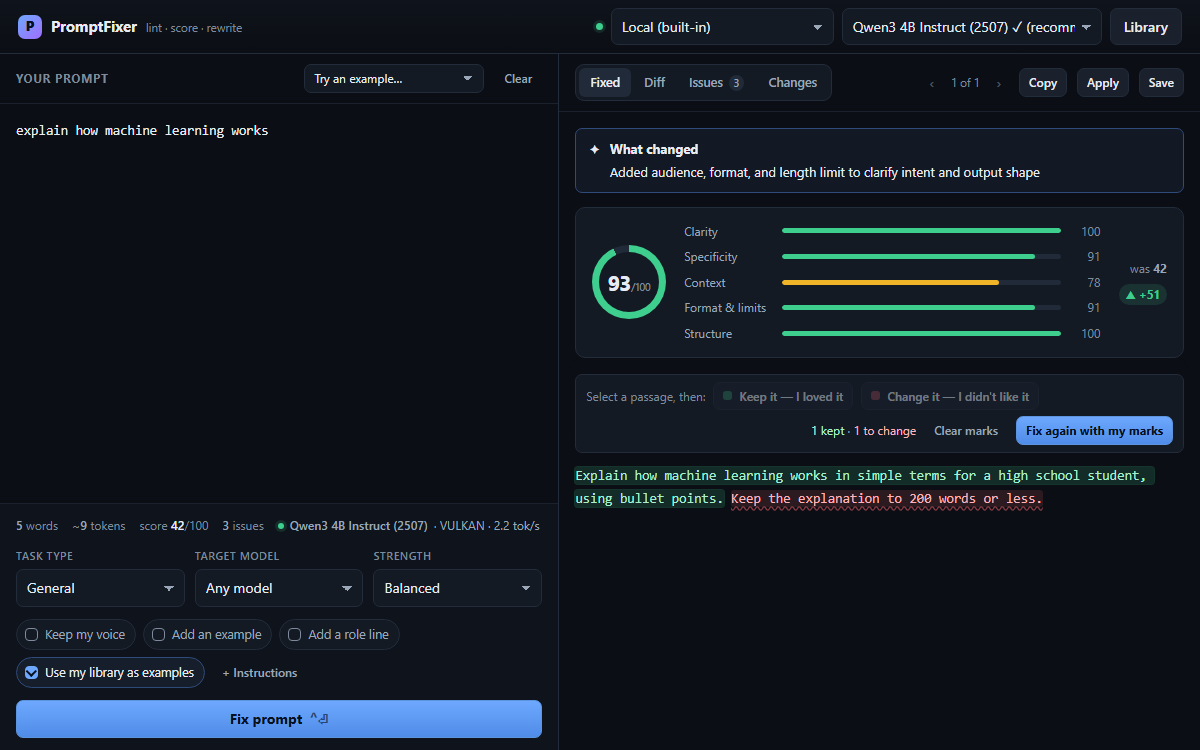
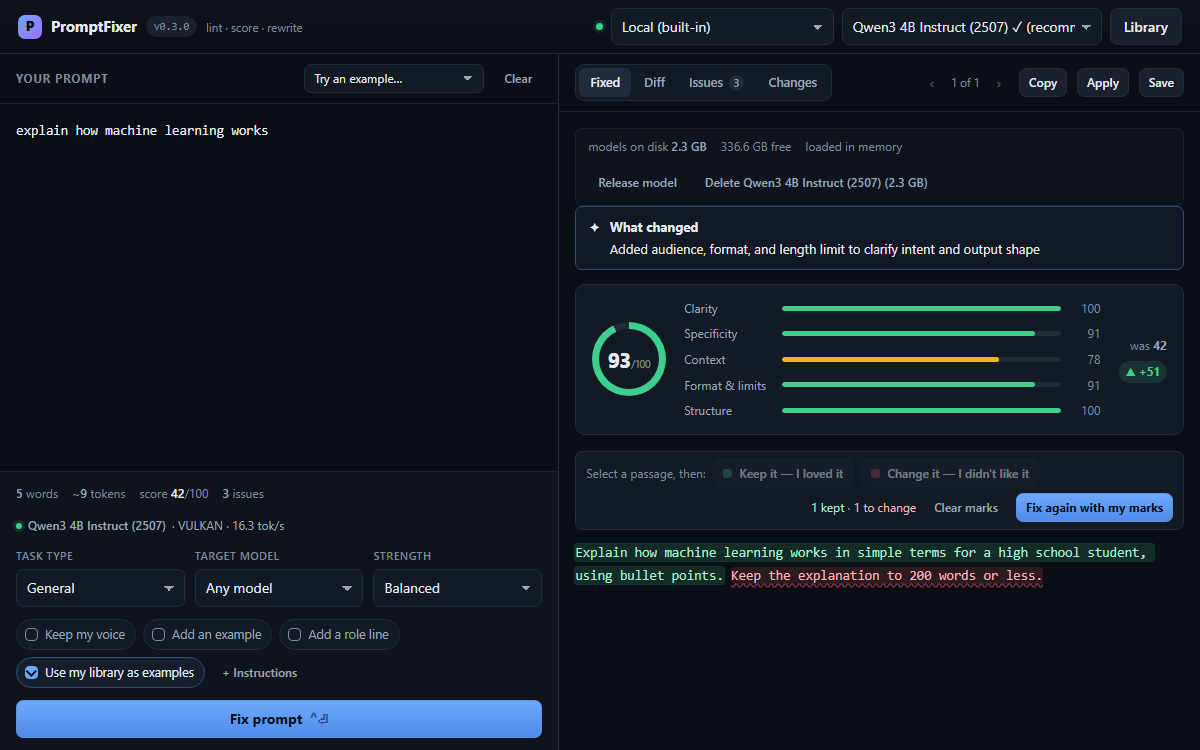
feat(promptfixer): update image and metadata for version 0.3.0

diff --git a/index.html b/index.html
@@ -705,7 +705,7 @@
                 <article class="project-card">
                     <figure class="project-media">
                         <img src="./img/promptfixer.png" width="1200" height="750" loading="lazy" decoding="async"
-                             alt="PromptFixer window. Left: the prompt 'explain how machine learning works' scored 42 out of 100 with 3 issues. Right: the local model's rewrite scored 93, up 51, with a summary of what changed and per-category bars for clarity, specificity, context, format and structure. Under them a marking bar offers 'Keep it &mdash; I loved it' and 'Change it &mdash; I didn't like it', counts 1 kept and 1 to change, and has a 'Fix again with my marks' button. In the rewritten prompt, the sentence that names the audience and asks for bullet points is highlighted green as kept, and the sentence that caps the length at 200 words is highlighted red, to be changed.">
+                             alt="PromptFixer window, version 0.3.0 beside the name. Left: the prompt 'explain how machine learning works' scored 42 out of 100 with 3 issues, rewritten by the built-in Qwen3 4B model on the GPU at 16.3 tokens a second. Right: a row reporting 2.3 GB of models on disk, 336.6 GB free and the model loaded in memory, with buttons to release it or delete it; below that the rewrite scored 93, up 51, with a summary of what changed and per-category bars for clarity, specificity, context, format and structure. Under them a marking bar offers 'Keep it &mdash; I loved it' and 'Change it &mdash; I didn't like it', counts 1 kept and 1 to change, and has a 'Fix again with my marks' button. In the rewritten prompt, the sentence that names the audience and asks for bullet points is highlighted green as kept, and the sentence that caps the length at 200 words is highlighted red, to be changed.">
                     </figure>
                     <div class="project-body">
                         <div class="project-info">
@@ -726,12 +726,13 @@
                                 <li>Scores a prompt instantly against ~30 prompt-engineering rules.</li>
                                 <li>Rewrites it with a local model (Qwen3-4B via node-llama-cpp). Runs offline; nothing you type leaves the machine.</li>
                                 <li>Re-scores the rewrite and shows a word-level diff with a change log for every edit.</li>
-                                <li>New in 0.2.0: select any passage of the rewrite, mark it <em>Keep it</em> or <em>Change it</em>, and fix again. The model revises its own rewrite instead of starting over, and a guard checks that what you kept came back word for word.</li>
+                                <li>Select any passage of the rewrite, mark it <em>Keep it</em> or <em>Change it</em>, and fix again. The model revises its own rewrite instead of starting over, and a guard checks that what you kept came back word for word.</li>
+                                <li>New in 0.3.0: the rewrite appears as the model writes it instead of a spinner, a line names which wait you are in, and the model hands its memory back when it sits idle. &ldquo;Nothing you type leaves the machine&rdquo; stopped being a claim and became a test that fails the build if the app opens a connection to anything but this machine.</li>
                             </ul>
                             <div class="project-stack">
                                 <span>Electron</span><span>React</span><span>TypeScript</span><span>Vite</span><span>Node.js / Express</span><span>node-llama-cpp</span><span>Playwright</span><span>Elastishot</span>
                             </div>
-                            <p class="project-meta"><svg class="svg-icon" viewBox="0 0 512 512" aria-hidden="true" focusable="false"><use href="#i-check-circle"></use></svg> ATDD: 113 Gherkin scenarios, 102 of them automated with Playwright, plus 236 unit and component tests. The interface is checked against approved screenshots with Elastishot.</p>
+                            <p class="project-meta"><svg class="svg-icon" viewBox="0 0 512 512" aria-hidden="true" focusable="false"><use href="#i-check-circle"></use></svg> ATDD: 113 Gherkin scenarios, 103 of them automated with Playwright, plus 290 unit and component tests. The interface is checked against approved screenshots with Elastishot.</p>
                             <p class="project-links">
                                 <a href="https://github.com/Osman19702/PromptFixer" target="_blank" rel="noopener noreferrer"><svg class="svg-icon" viewBox="0 0 496 512" aria-hidden="true" focusable="false"><use href="#i-github"></use></svg> Source on GitHub</a>
                             </p>
@@ -740,23 +741,23 @@
                         <div class="project-download">
                             <h4>Download for Windows</h4>
                             <div class="btn-con">
-                                <a href="https://github.com/Osman19702/PromptFixer/releases/download/v0.2.0/PromptFixer-0.2.0-win-x64.exe"
+                                <a href="https://github.com/Osman19702/PromptFixer/releases/download/v0.3.0/PromptFixer-0.3.0-win-x64.exe"
                                    class="main-btn project-btn" target="_blank" rel="noopener noreferrer" aria-describedby="promptfixer-note">
                                     <span class="btn-text">Download<span class="sr-only"> PromptFixer for Windows</span></span>
                                     <span class="btn-icon"><svg class="svg-icon" viewBox="0 0 512 512" aria-hidden="true" focusable="false"><use href="#i-download"></use></svg></span>
                                 </a>
                             </div>
-                            <p class="project-meta"><svg class="svg-icon" viewBox="0 0 384 512" aria-hidden="true" focusable="false"><use href="#i-id-badge"></use></svg> Version <span class="project-version">0.2.0</span></p>
+                            <p class="project-meta"><svg class="svg-icon" viewBox="0 0 384 512" aria-hidden="true" focusable="false"><use href="#i-id-badge"></use></svg> Version <span class="project-version">0.3.0</span></p>
                             <p class="project-meta"><svg class="svg-icon" viewBox="0 0 448 512" aria-hidden="true" focusable="false"><use href="#i-windows"></use></svg> Windows 10 / 11, 64-bit</p>
-                            <p class="project-meta"><svg class="svg-icon" viewBox="0 0 512 512" aria-hidden="true" focusable="false"><use href="#i-cubes"></use></svg> 339 MiB installer (355,607,044 bytes). The 2.5 GB language model downloads on first run; after that it works offline.</p>
-                            <p class="project-meta"><svg class="svg-icon" viewBox="0 0 448 512" aria-hidden="true" focusable="false"><use href="#i-calendar-alt"></use></svg> Released <time datetime="2026-09-17">17 Sep 2026</time></p>
+                            <p class="project-meta"><svg class="svg-icon" viewBox="0 0 512 512" aria-hidden="true" focusable="false"><use href="#i-cubes"></use></svg> 339 MiB installer (355,614,523 bytes). The 2.5 GB language model downloads on first run; after that it works offline.</p>
+                            <p class="project-meta"><svg class="svg-icon" viewBox="0 0 448 512" aria-hidden="true" focusable="false"><use href="#i-calendar-alt"></use></svg> Released <time datetime="2026-09-21">21 Sep 2026</time></p>
 
                             <p class="project-hash">
                                 <span class="project-hash-label">SHA-256</span>
-                                <code>0388C49399EFB895036F2F75E8A7B09803D613BB56850D9644ED17C7C0B9853E</code>
+                                <code>39DDE4AAF5E9AC4B059D256280002211D5E78A89FFC65DC375E7965C5D71B0D7</code>
                             </p>
                             <p class="project-verify-label">Verify the file you downloaded (PowerShell):</p>
-                            <pre class="project-verify"><code>Get-FileHash .\PromptFixer-0.2.0-win-x64.exe -Algorithm SHA256</code></pre>
+                            <pre class="project-verify"><code>Get-FileHash .\PromptFixer-0.3.0-win-x64.exe -Algorithm SHA256</code></pre>
 
                             <p class="info-stats project-note" id="promptfixer-note">
                                 <strong>Unsigned installer.</strong> I have not bought a code-signing certificate, so on first run Windows SmartScreen shows
@@ -764,7 +765,7 @@
                                 above matches the file you downloaded. The checksum proves the file is the one I built; it does not mean Windows vouches for it.
                             </p>
                             <p class="project-links">
-                                <a href="https://github.com/Osman19702/PromptFixer/releases/download/v0.2.0/SHA256SUMS.txt" target="_blank" rel="noopener noreferrer"><svg class="svg-icon" viewBox="0 0 512 512" aria-hidden="true" focusable="false"><use href="#i-tasks"></use></svg> Checksums (SHA256SUMS.txt)</a>
+                                <a href="https://github.com/Osman19702/PromptFixer/releases/download/v0.3.0/SHA256SUMS.txt" target="_blank" rel="noopener noreferrer"><svg class="svg-icon" viewBox="0 0 512 512" aria-hidden="true" focusable="false"><use href="#i-tasks"></use></svg> Checksums (SHA256SUMS.txt)</a>
                             </p>
                         </div>
                     </div>
